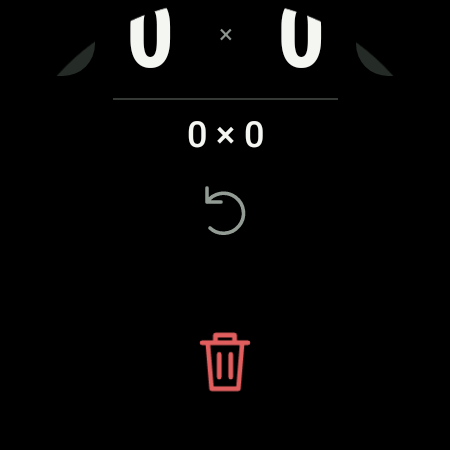
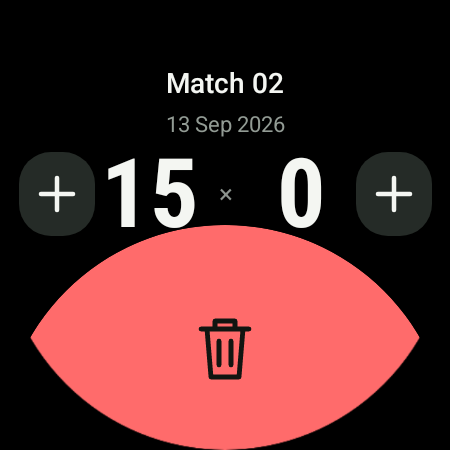
docs(tennis-watch): document and capture hold-to-delete behavior
Record the red semicircle geometry, continuous confirmation hold, and
vibration in the product and design references. Refresh the native delete
preview and verification results so they describe the current interaction.

Link the recording uploaded with gh --attach to PR #8. Keep video files
outside Git while preserving the screenshot and reproducible behavior notes.

diff --git a/tennis-watch/docs/verification.md b/tennis-watch/docs/verification.md
@@ -1,6 +1,6 @@
 # Verification
 
-`./build.sh` builds the development AppHost, runs 91 data-driven tests and packages the signed Release APK. The APK was installed in a Wear OS 5 emulator with a round 450 × 450 display at 320 dpi. These screenshots and the recording use controlled match data and come directly from the installed Release app.
+`./build.sh` builds the development AppHost, runs 104 data-driven tests and packages the signed Release APK. The APK was installed in a Wear OS 5 emulator with a round 450 × 450 display at 320 dpi. The deletion screenshot and recording were refreshed for the one-second hold; unchanged scoring and navigation captures are retained. All captures use controlled match data and come directly from an installed Release build.
 
 | State | Capture |
 | --- | --- |
@@ -10,14 +10,14 @@
 | New match, undo disabled | [Empty](screenshots/empty.png) |
 | Legacy match without a recorded creation date | [Migrated match](screenshots/legacy.png) |
 | Held leftward drag revealing the next match | [Navigation](screenshots/swipe-next.png) |
-| Held upward drag revealing the red trash icon | [Delete preview](screenshots/delete-preview.png) |
+| Red semicircle at the screen midpoint with a dark trash icon | [Delete preview](screenshots/delete-preview.png) |
 | Approved tennis-ball icon in the Wear OS app grid | [Launcher](screenshots/launcher.png) |
-| Left/right navigation, new match, canceled deletion and full deletion | [Gesture recording](https://github.com/user-attachments/assets/da0060f7-0c49-4ba7-82e4-47b74640ffe5) |
+| Early release cancels; a full one-second hold deletes before release | [Deletion recording](https://github.com/user-attachments/assets/6a3e000b-4be0-4ba0-a191-993f106e2a76) |
 
-ADB touch input verified navigation through existing matches, creation at the newest end, resistance at the oldest end, and point/undo controls after switching the score views. Short horizontal swipes starting on a plus button did not award points. Partial upward swipes, downward and diagonal gestures, and crossing the deletion threshold then returning below it left the match unchanged. Backgrounding the app during a held deletion canceled the gesture and restored the controls.
+ADB touch input verified that a fast full upward swipe and a partial drag held for more than one second leave the match unchanged. No deletion occurs before the full second in the deletion zone. Pulling back resets the deadline, and reentering requires a fresh one-second hold. Releasing early or backgrounding the app cancels the pending deletion and restores the controls.
 
-Full upward swipes deleted only the selected match. Tests covered the first, middle, last, and only remaining match, stable match numbers after deletion, restored selection and undo after restart, and navigation/deletion with system animations disabled. Release smoke checks repeated point, undo, navigation, fresh-match creation, canceled/full deletion, restart, and legacy migration.
+A completed hold deletes while the finger is still down. Continuing contact for another 1.4 seconds and then releasing does not delete a second match. A new gesture can delete again. Checks also covered left/right navigation after confirmation, point/undo, deletion of the only match, persistence after restart, and the full confirmation delay with system animations disabled. Android's vibrator service recorded the app's 80ms confirmation request.
 
-The unit tests cover advantage scoring, set boundaries, extended tiebreaks, continued scoring, undo across boundaries, independent match histories, metadata validation, stable numbering, deletion selection, nonmutating previews, gesture axes and thresholds, file persistence, legacy migration, and an interrupted temporary write. Coverage excludes generated JSON serialization code.
+The unit tests cover advantage scoring, set boundaries, extended tiebreaks, continued scoring, undo across boundaries, independent match histories, metadata validation, stable numbering, deletion selection, nonmutating previews, gesture axes and thresholds, the one-second deadline, cancellation and reentry, one confirmation per gesture, file persistence, legacy migration, and an interrupted temporary write. Coverage excludes generated JSON serialization code. The CRAP gate's maximum improves from 12 on main to 10.
 
-The APK contains `armeabi-v7a`, `arm64-v8a`, and `x86_64` native libraries. Physical Galaxy Watch 5 Pro testing remains to be done.
+The APK contains `armeabi-v7a`, `arm64-v8a`, and `x86_64` native libraries. Physical Galaxy Watch 5 Pro testing, including the feel of the vibration, remains to be done.

diff --git a/tennis-watch/DESIGN.md b/tennis-watch/DESIGN.md
@@ -9,6 +9,7 @@ colors:
   separator: "#8B938D"
   divider: "#343936"
   deletion: "#FF6B6B"
+  on-deletion: "#111511"
 typography:
   display:
     fontFamily: "sans-serif-condensed"
@@ -82,7 +83,8 @@ The palette uses off-white and green-tinted grays on an OLED black ground.
 | `secondary` | Completed sets and undo stroke |
 | `separator` | Small multiplication sign between point scores |
 | `divider` | Thin line between points and games |
-| `deletion` | Trash icon revealed by an upward drag |
+| `deletion` | Semicircle raised by an upward drag |
+| `on-deletion` | Trash icon on the red semicircle |
 
 ## Typography
 
@@ -123,7 +125,9 @@ Each plus sits on a filled rounded rectangle, 38dp wide and 42dp high, centered 
 
 Horizontal dragging moves the entire score face with the finger and reveals the adjacent match. Left advances through history and previews a fresh match at the newest end. Right shows previous matches. At the oldest match, a rightward drag moves the face at 18% of the finger distance and springs back. A completed horizontal swipe settles in 150ms; an incomplete swipe returns in 160ms.
 
-Upward dragging reveals a red, 48dp trash icon centered at 80% height. Its opacity rises from 0.45 to 1 and its scale from 0.8 to 1 as the drag approaches the deletion threshold. Release beyond 45% of the viewport height, with a minimum of 96dp, deletes the match. The score exits upward in 130ms, and the selected remaining match enters from below in 180ms. A short swipe or a return below the threshold cancels deletion. All settling uses cubic ease-out and respects Android's animator-duration setting, including disabled animations.
+Upward dragging raises a solid red semicircle over the stationary score. Its curved top stops at the vertical midpoint. The circle diameter matches the shorter display dimension; its top rests at half the viewport height when fully raised. A dark, 48dp trash icon is centered horizontally, 27% of the circle diameter below that top. The shape and icon translate together without fading or scaling.
+
+Holding a deliberate upward drag at half the display height, with a minimum of 96dp, for one continuous second deletes the match and produces an 80ms vibration. Releasing, pulling back, adding another finger, or leaving the app before confirmation cancels the hold. One gesture can delete at most one match. The semicircle retreats in 160ms after confirmation or cancellation. Settling uses cubic ease-out and respects Android's animator-duration setting; the confirmation delay always remains one second.
 
 ## Launcher icon
 

diff --git a/tennis-watch/PRODUCT.md b/tennis-watch/PRODUCT.md
@@ -8,7 +8,7 @@ Native Android app for Wear OS. Target device: Samsung Galaxy Watch 5 Pro.
 A tennis player records points during a match by tapping the left or right plus button on their watch.
 
 ## Scope
-The single screen contains a match number and creation date, two point scores, one plus button per side, a divider, a small games/set score, and undo beneath. Swipe left opens the next match and creates one at the end of history. Swipe right opens the previous match. Swipe up reveals a red trash icon; completing the upward swipe deletes the current match. Match scores, dates, numbers, selection, and undo history persist locally. Player names, settings, and match completion screens are outside this app's scope.
+The single screen contains a match number and creation date, two point scores, one plus button per side, a divider, a small games/set score, and undo beneath. Swipe left opens the next match and creates one at the end of history. Swipe right opens the previous match. Swipe up raises a red semicircle with a dark trash icon to the middle of the screen. A continuous one-second hold there confirms deletion with a short vibration. Releasing early or pulling back cancels. Match scores, dates, numbers, selection, and undo history persist locally. Player names, settings, and match completion screens are outside this app's scope.
 
 ## Appearance
 Preserve the sketch’s composition with a minimal black-and-white finish. Points and the plus controls lead; match metadata, the games row, and undo have less visual emphasis. Red identifies the deletion gesture. The approved yellow-green tennis-ball icon identifies the app in the launcher. The scoring screen must remain legible during a quick glance on court.

diff --git a/tennis-watch/README.md b/tennis-watch/README.md
@@ -4,7 +4,7 @@ A single-screen tennis scorer for Samsung Galaxy Watch 5 Pro, built with .NET MA
 
 Tap either **+** to award that side a point. The arrow undoes the last point, including a point that ended a game or set. Swipe left to open the next match, or create one when viewing the newest match. Swipe right to open the previous match. The score follows the drag and slides into place when the swipe completes.
 
-Swipe up to reveal the red trash icon. Release after dragging at least 45% of the display height, with a minimum of 96dp, to delete the current match. Shorter swipes snap back. Deletion opens the previous match, or the next when deleting the first. Deleting the only match creates a fresh one.
+Swipe up to raise the red semicircle and dark trash icon to the middle of the screen. Hold there for one second until the watch vibrates and deletes the current match. Releasing early or pulling back cancels the hold. Deletion opens the previous match, or the next when deleting the first. Deleting the only match creates a fresh one.
 
 The header shows the match number and creation date. Numbers remain stable after deletion. Matches saved by the first version retain their scores and show "Date unavailable", because that version did not record dates.
 
